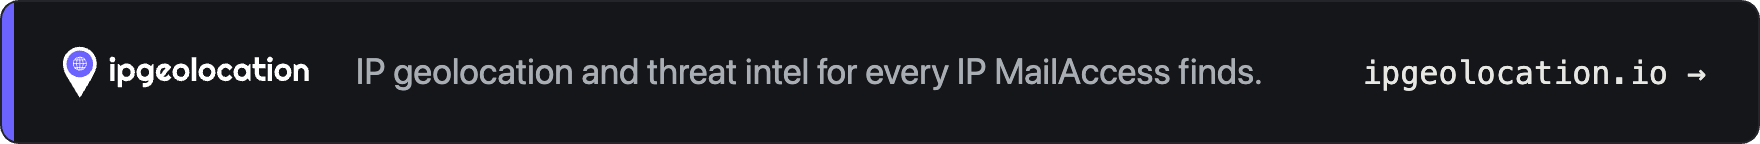
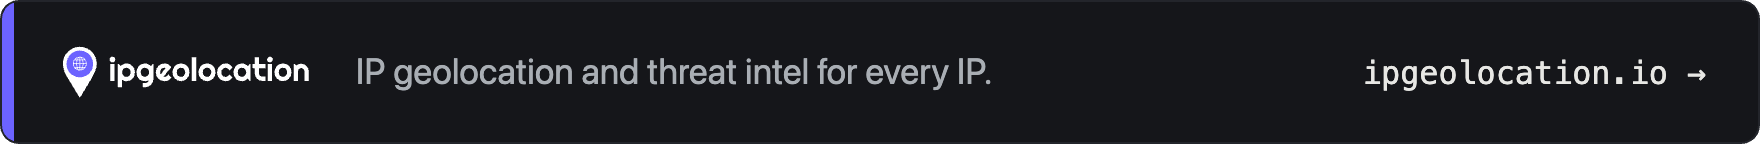
docs: shorten ipgeolocation.io sponsor tagline

Changed region(s): [[0.5625, 0.3889, 0.7188, 0.5833]]

diff --git a/README.md b/README.md
@@ -26,7 +26,7 @@
 Self-hostable OSINT platform for investigating email addresses. Fan out across breach databases, social networks, DNS records, and the open web, then get back a unified exposure score and structured findings you can export or pipe into Maltego.
 
 <a href="https://netlas.io"><img src="assets/sponsor-netlas.png" alt="Netlas.io — map any target's attack surface in seconds" width="100%"></a>
-<a href="https://ipgeolocation.io/?utm_source=github&utm_medium=referral&utm_campaign=mailaccess"><img src="assets/sponsor-ipgeolocation.png" alt="ipgeolocation.io — IP geolocation and threat intel for every IP MailAccess finds" width="100%"></a>
+<a href="https://ipgeolocation.io/?utm_source=github&utm_medium=referral&utm_campaign=mailaccess"><img src="assets/sponsor-ipgeolocation.png" alt="ipgeolocation.io — IP geolocation and threat intel for every IP" width="100%"></a>
 <a href="https://mangoproxy.com/?utm_source=katrielmoses&utm_medium=partner&utm_campaign=katrielmoses_github"><img src="assets/sponsor-mango.png" alt="MangoProxy — residential IPs that keep big harvests clean" width="100%"></a>
 <a href="https://www.swiftproxy.net/?ref=MailAccess"><img src="assets/sponsor-swiftproxy.png" alt="Swiftproxy — reliable residential IPs for scalable email harvesting" width="100%"></a>
 
